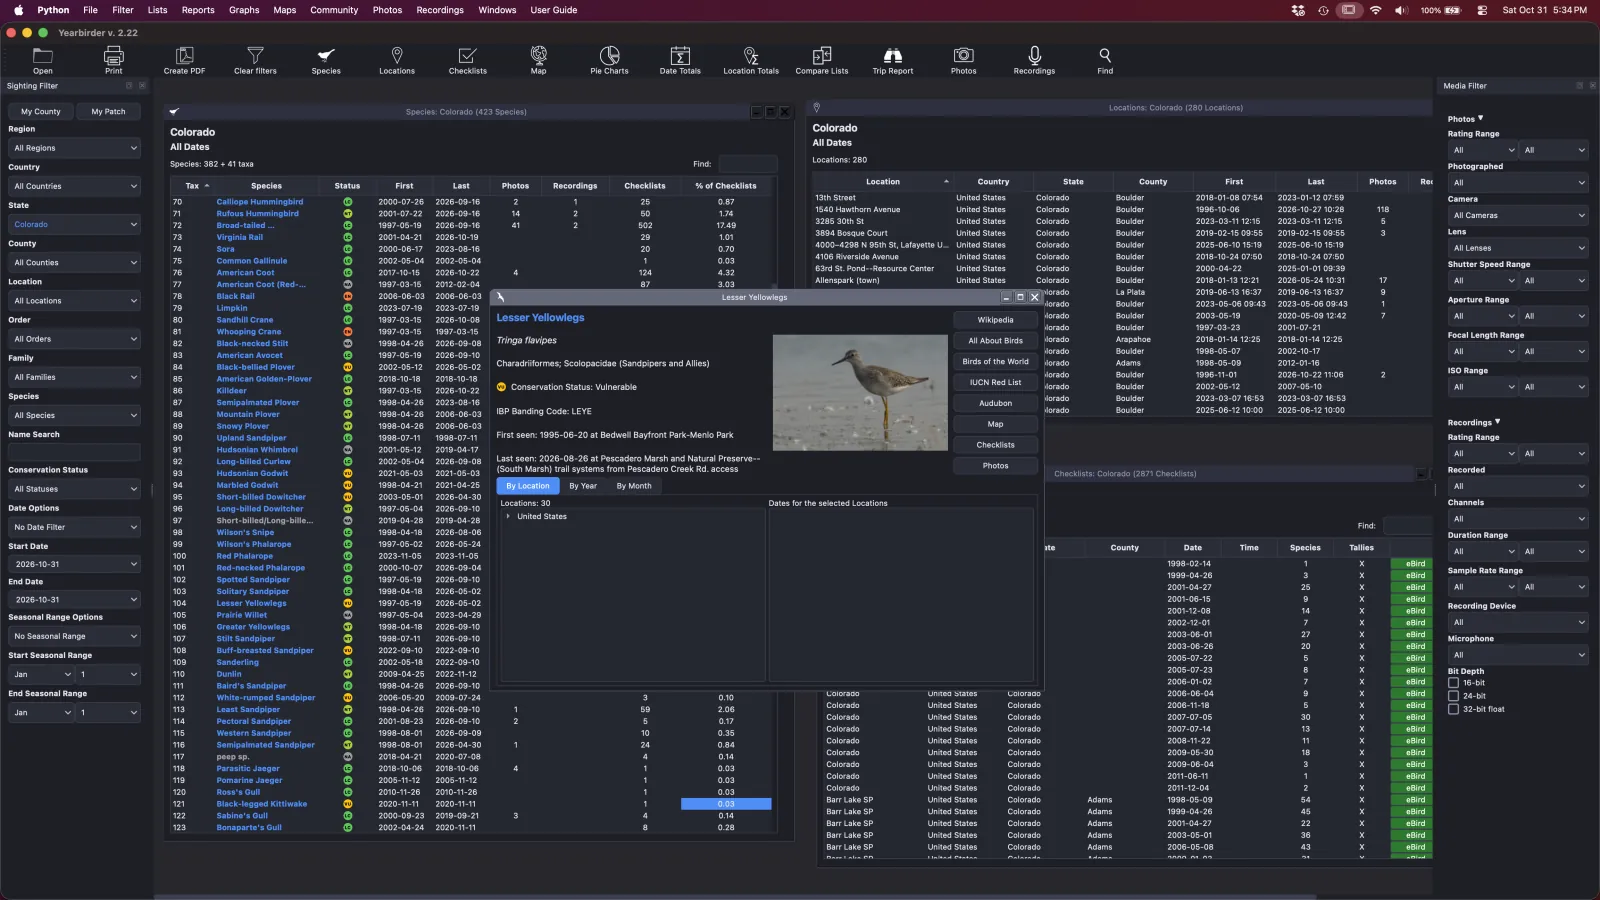
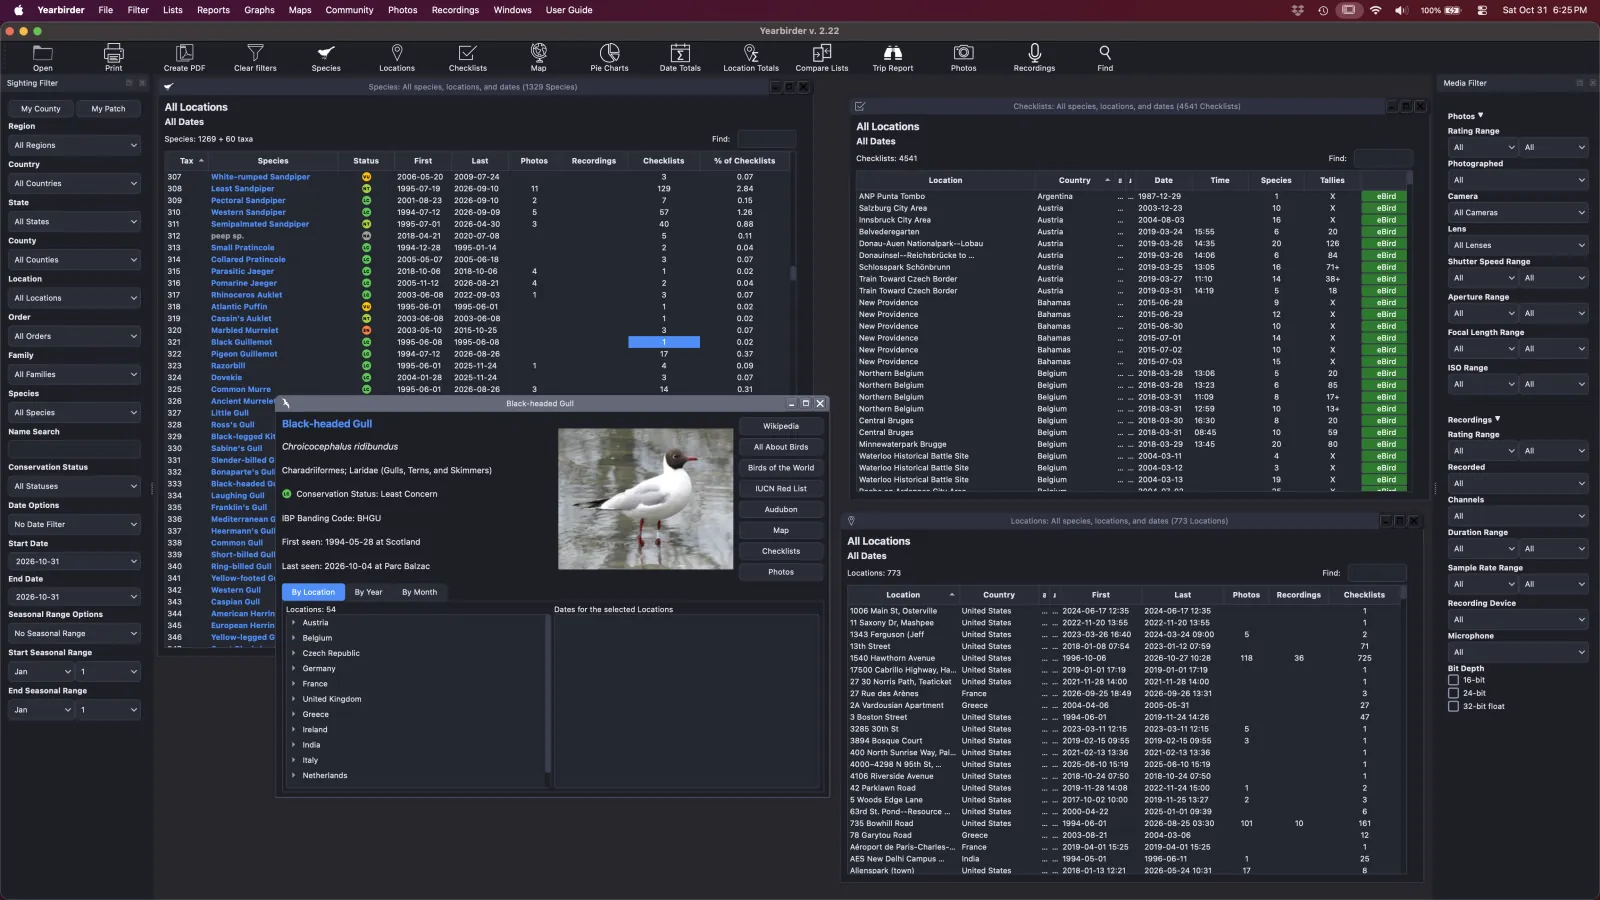
Sighting Analysis page: retaken lists screenshot

diff --git a/web/sighting-analysis.html b/web/sighting-analysis.html
@@ -91,7 +91,7 @@
         </ul>
       </div>
       <div class="feature-screenshot">
-        <img src="images/opt/demo_AppLists.webp" alt="Yearbirder Species, Locations and Checklists lists for Colorado, with an Individual window showing a species&rsquo; conservation status" width="1600" height="900" loading="lazy">
+        <img src="images/opt/demo_AppLists.webp" alt="Yearbirder Species, Checklists and Locations lists, with an Individual window showing a species&rsquo; conservation status" width="1600" height="900" loading="lazy">
       </div>
     </div>
   </div>
